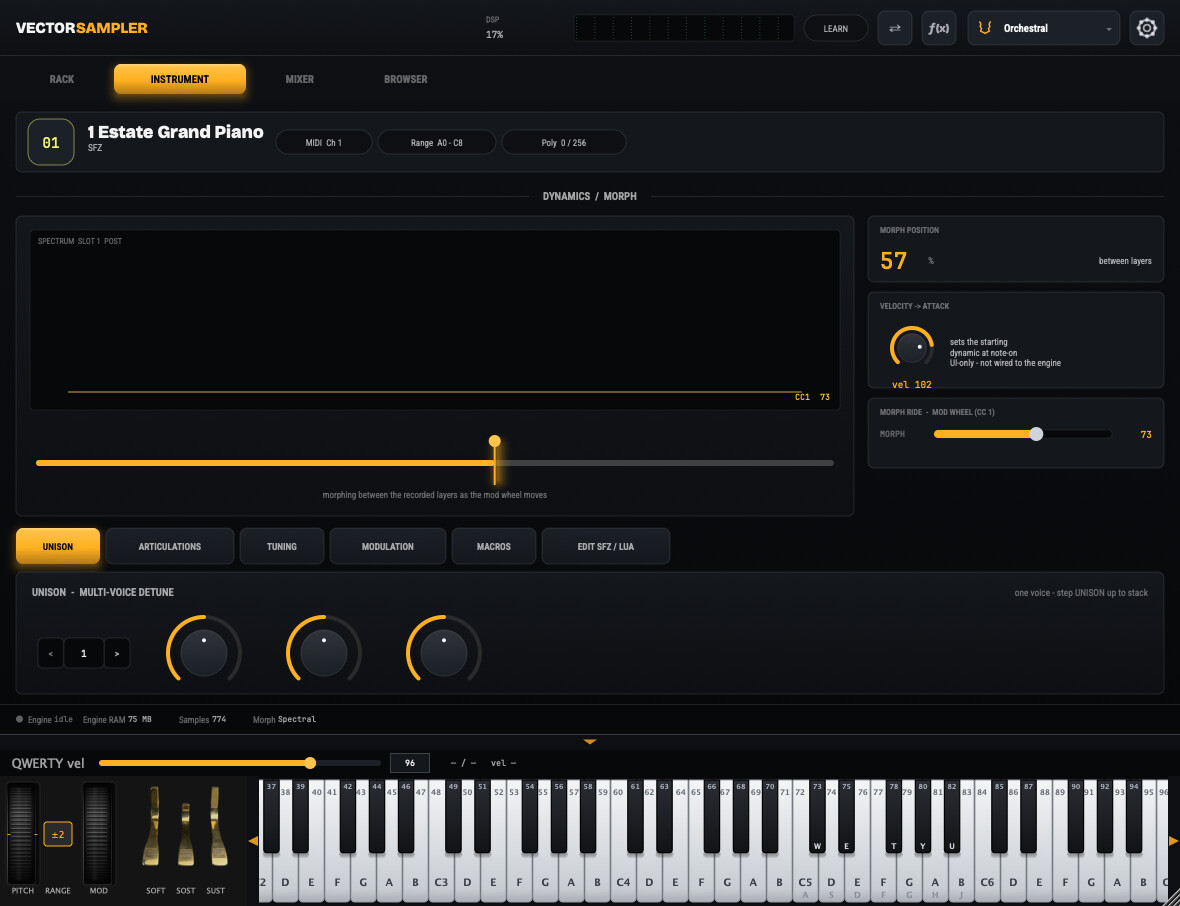
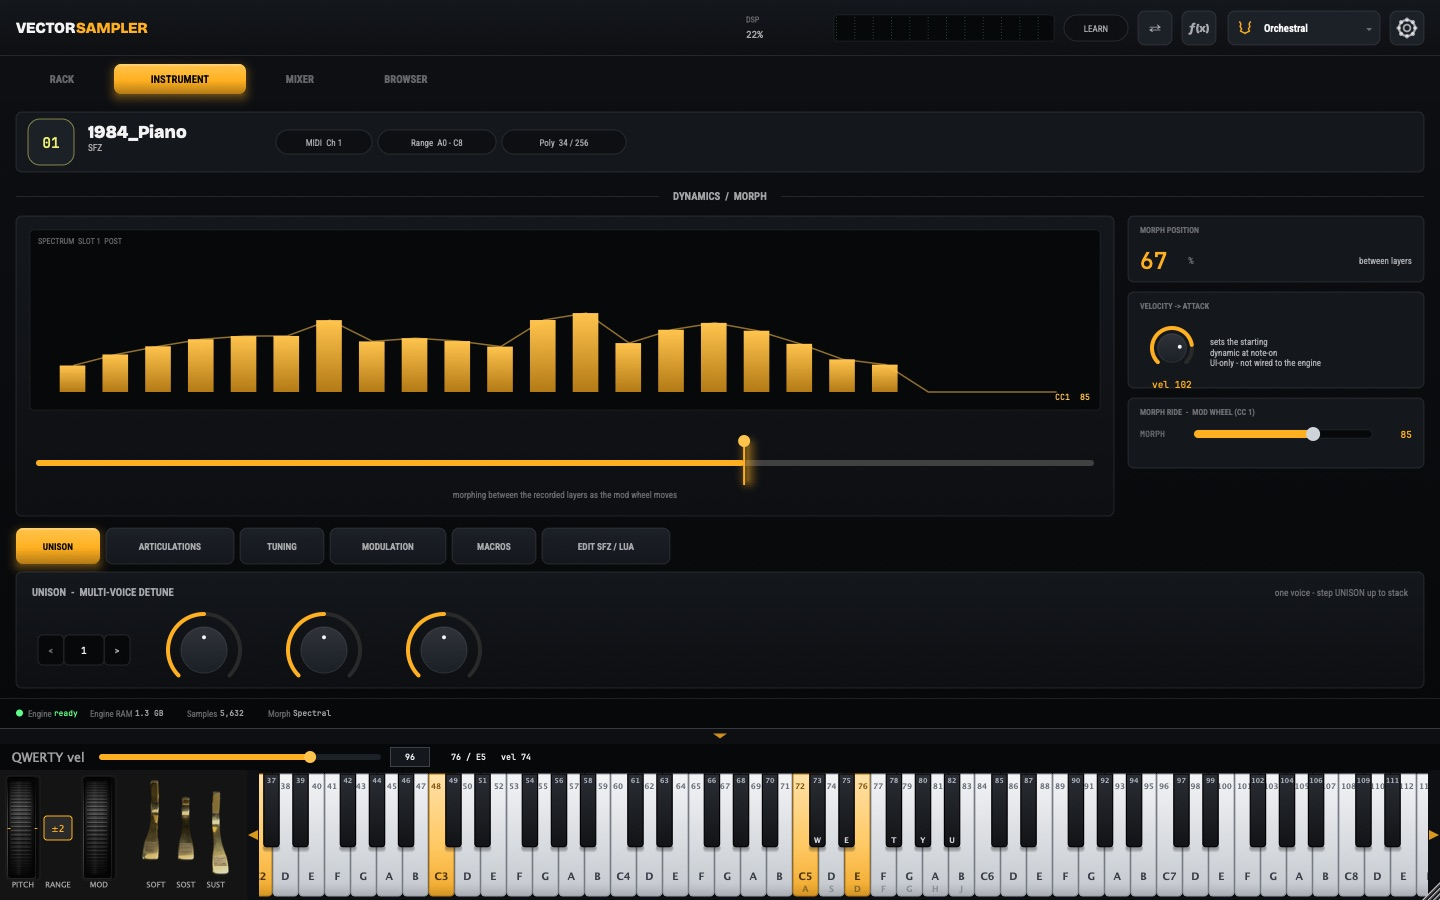
Added fresh VS images

diff --git a/pages/projects/vector-sampler.html b/pages/projects/vector-sampler.html
@@ -91,16 +91,20 @@
         <p class="mb-md">Captured from a running build over OSC.</p>
         <div class="screenshots">
           <figure>
-            <img src="../../images/projects/vs-instrument.jpg" alt="VectorSampler Instrument page: the Dynamics and Morph panel with a spectrum display, a morph position readout showing where the tone sits between layers, and the unison multi-voice detune controls below">
-            <figcaption>Instrument &mdash; dynamics and morph</figcaption>
+            <img src="../../images/projects/vs-rack.jpg" alt="VectorSampler Rack page: two instrument slots, each loaded with an SFZ piano and carrying a SPECTRAL morph engine chip, with per-slot MIDI channel and key range, and a keyboard with pitch, mod and pedal controls along the bottom">
+            <figcaption>Rack &mdash; two instruments, one morph engine per slot</figcaption>
           </figure>
           <figure>
-            <img src="../../images/projects/vs-mixer.jpg" alt="VectorSampler Mixer page: an insert chain of EQ, Distortion, Tape, Reverb, Filter, Modulation, Delay and Compressor across the top, with four shared returns and the channel faders below">
+            <img src="../../images/projects/vs-instrument.jpg" alt="VectorSampler Instrument page: the Dynamics and Morph panel with a live spectrum display, a morph position readout at 67 percent between layers, a mod-wheel morph-ride control, and the unison multi-voice detune controls below">
+            <figcaption>Instrument &mdash; morphing between the recorded dynamic layers</figcaption>
+          </figure>
+          <figure>
+            <img src="../../images/projects/vs-mixer.jpg" alt="VectorSampler Mixer page: an insert row of Vector EQ, Distortion, Compressor, Tape, Filter, Modulation, Reverb and Delay across the channel, with a four-band parametric EQ drawn over the piano's live frequency spectrum and the shared return and master buttons below">
             <figcaption>Mixer &mdash; the Vector engines as inserts</figcaption>
           </figure>
           <figure>
-            <img src="../../images/projects/vs-browser.jpg" alt="VectorSampler Browser page: library folders on the left, an instrument list in the centre, and metadata for the selected instrument on the right">
-            <figcaption>Browser &mdash; library and metadata</figcaption>
+            <img src="../../images/projects/vs-return.jpg" alt="VectorSampler Return page: the Reverb A editor, with a room source panel, a preset selector, and decay, predelay, HF decay, room width, depth, warmth, diffusion and clarity controls">
+            <figcaption>Return &mdash; one of four shared effect buses</figcaption>
           </figure>
         </div>
       </div>
